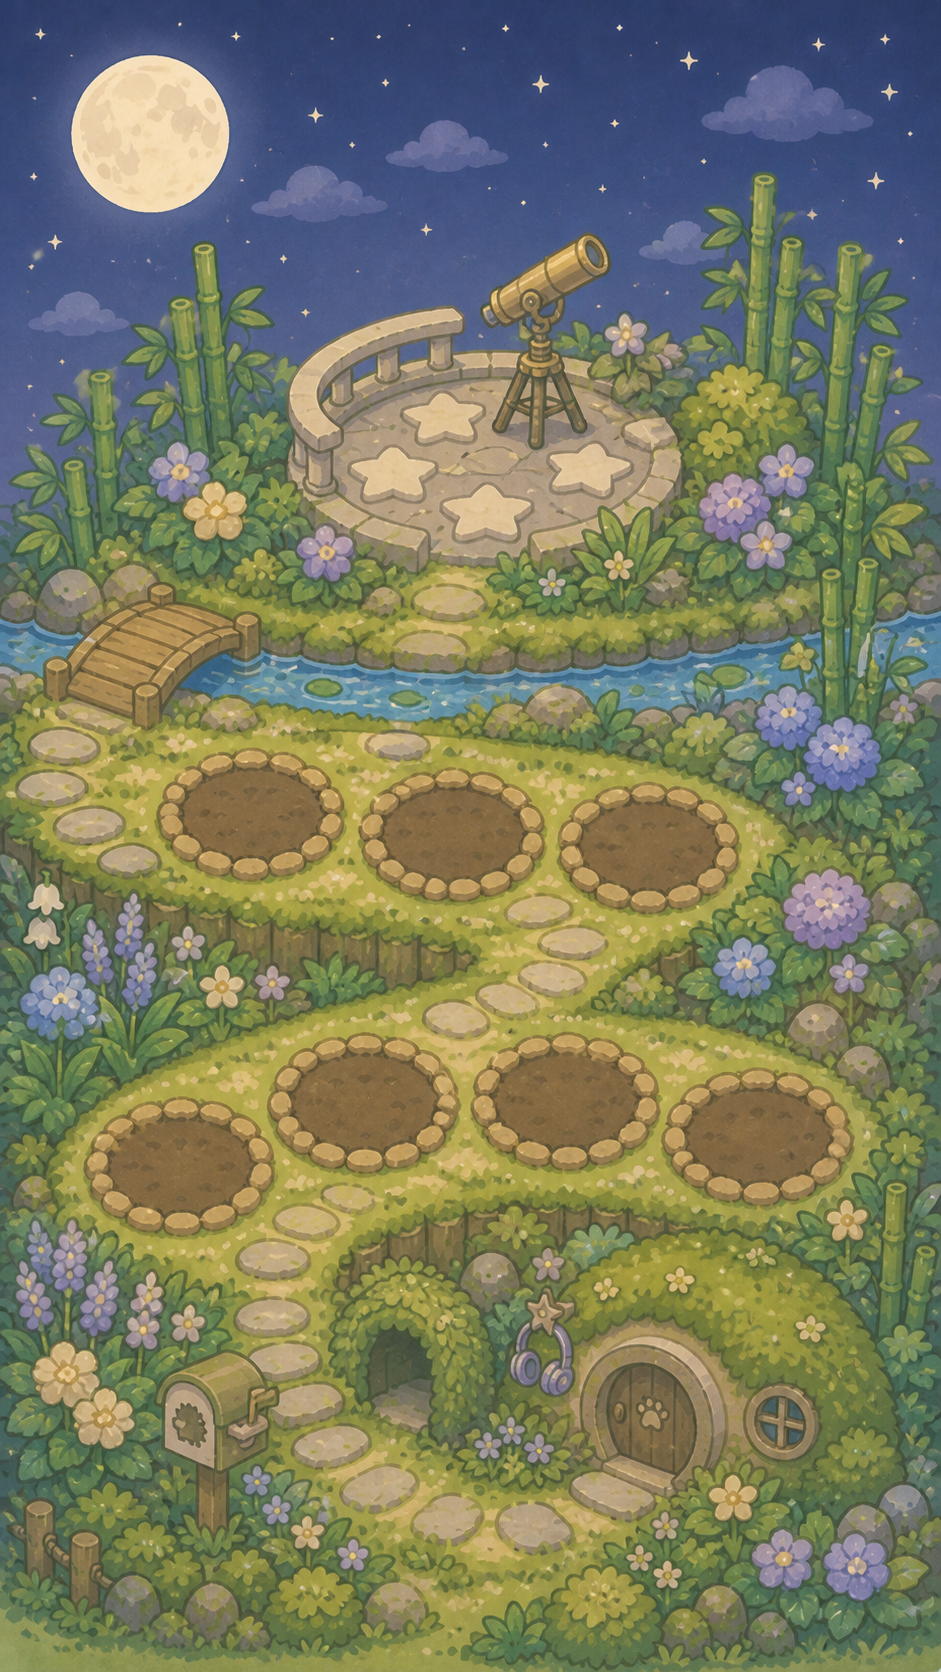
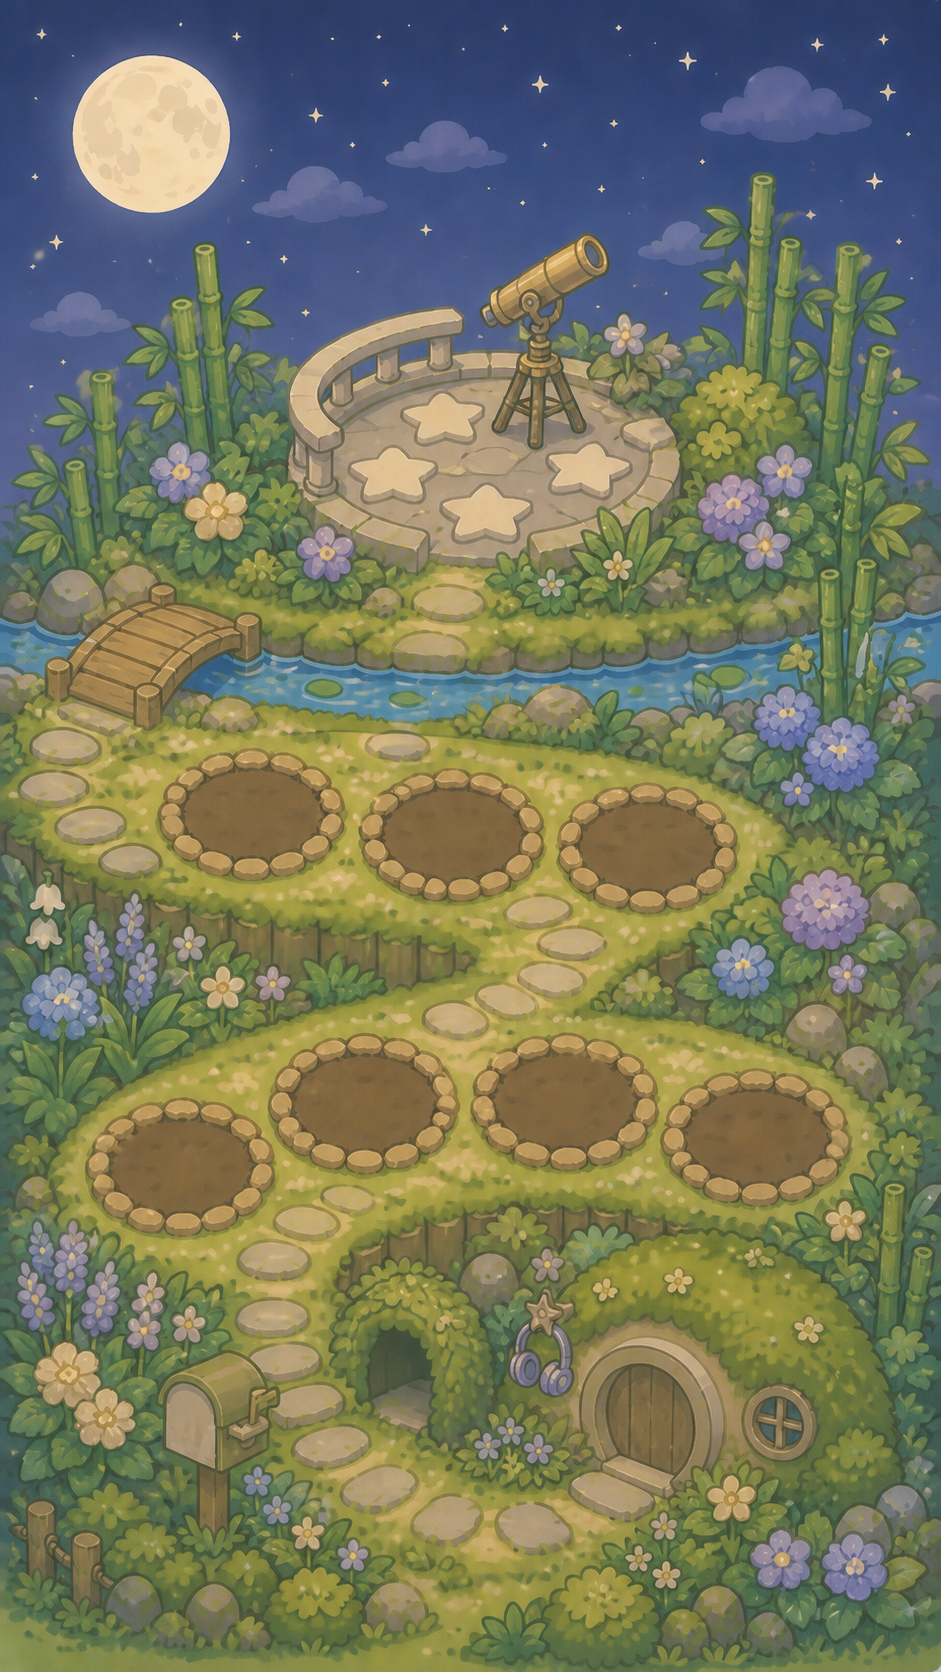
fix: align garden growth and chat identities
# Conflicts:
#	public/world/prototype.js

diff --git a/public/world/prototype.js b/public/world/prototype.js
@@ -63,7 +63,7 @@ const seeds = [
 ];
 
 const gardenPlants = {
-  current: { title: "一起完成这场黑客松", status: "active", asset: "tree.png", peer: "饭团、Lion、Bamboo", date: "进行中", copy: "四个人正在把社交森林的产品、前端、后端与路演体验接到一起。" },
+  current: { title: "新近完成的共同经历", status: "memory", asset: "flower-7.png", peer: "同行者", date: "最近", copy: "这次行动已经完成，也被收进了双方的花园。" },
   ride: { title: "沿着西湖骑一整圈夜风", status: "memory", asset: "flower-1.png", peer: "饭团、迟野", date: "8 月 7 日", copy: "晚风有了路线，湖水有了同行者。" },
   photo: { title: "用一卷胶片拍完校园的夏天", status: "memory", asset: "flower-4.png", peer: "橘子汽水、小满", date: "6 月 19 日", copy: "模糊和颗粒，也成了那个夏天真实存在过的纹理。" },
   study: { title: "去太子湾看郁金香追春天", status: "memory", asset: "flower-3.png", peer: "饭团、橘子汽水、小满", date: "3 月 29 日", copy: "花期快结束，不等于春天结束。" },
@@ -93,7 +93,7 @@ const profileWorlds = {
   "橘子汽水": { garden: "assets/personalized-gardens/chengzi.png", gardenerImage: "assets/gardeners/guanguan.png", gardener: "罐罐", species: "小浣熊", style: "城市寻路型", personality: "慢热细致，总能发现老街、光线和小路的关系。", specialty: "擅长带回 Citywalk、速写和城市摄影相关的种子。", signature: "我发现了一条没走过的小路，想不想看看它通向哪里？" },
   "迟野": { garden: "assets/personalized-gardens/chiye.png", gardenerImage: "assets/gardeners/huihui.png", gardener: "灰灰", species: "小鼹鼠", style: "可靠执行型", personality: "安静守时，喜欢先把路线与时间整理清楚。", specialty: "把模糊的想法拆成可以真正出发的集合点、路线和时间。", signature: "路线和时间我整理好了，你只需要决定要不要出发。" },
   "小满": { garden: "assets/personalized-gardens/xiaoman.png", gardenerImage: "assets/gardeners/lili.png", gardener: "栗栗", species: "小松鼠", style: "季节收藏型", personality: "温和耐心，对花期、鸟鸣和风的变化格外敏感。", specialty: "常带回自然观察、低压力陪伴和长期坚持的种子。", signature: "今天的风和上周不一样，我们出去看看吧。" },
-  "白羽": { garden: "assets/garden-world-v2.png", gardenerImage: "assets/gardeners/rongyue.png", gardener: "绒月", species: "小雪鸮", style: "夜行送信型", personality: "安静、勇敢，喜欢需要等待才会出现的事。", specialty: "在夜里寻找观星、电影与幻想文学有关的种子。", signature: "有些种子只在夜里发光，我替你带回来了一颗。" },
+  "白羽": { garden: "assets/personalized-gardens/baiyu.png", gardenerImage: "assets/gardeners/rongyue.png", gardener: "绒月", species: "小雪鸮", style: "夜行送信型", personality: "安静、勇敢，喜欢需要等待才会出现的事。", specialty: "在夜里寻找观星、电影与幻想文学有关的种子。", signature: "有些种子只在夜里发光，我替你带回来了一颗。" },
 };
 
 const stageMeta = {
@@ -112,8 +112,12 @@ function escapeHtml(value = "") {
 
 // 数据层：当前行动标题与同伴名，优先用真实发布的数据，否则回退演示文案
 function actionTitle() { return (server.draft && server.draft.idea) || "一起完成这场黑客松"; }
-// partnerName 仅用于展示，直接返回已转义值，避免各调用点漏转义（名字来自 LLM/用户不可控输入）
-function partnerName() { return escapeHtml(server.selectedCandidate || "饭团"); }
+function normalizedPersonName(name) {
+  const value = String(name || "").trim();
+  if (!value || value === "小林" || value === "林") return "迟野";
+  return value;
+}
+function partnerName() { return normalizedPersonName(server.selectedCandidate || "饭团"); }
 function candidateList() {
   if (server.published) return server.candidates || [];
   return (server.candidates && server.candidates.length) ? server.candidates : candidates;
@@ -352,11 +356,11 @@ function WorldGardenPage() {
   const meta = stageMeta[server.stage] || stageMeta.SEED;
   const world = window.WorldLayer;
   return `<main class="world-screen garden-world-screen ${ui.mailboxOverlay ? "has-world-modal" : ""}">
-    <section class="game-hud"><div><small>一寸欢喜的社交森林</small><strong>${server.selectedCandidate ? `1 株植物 · ${meta[0]}` : "8 朵回忆花 · 1 株正在生长"}</strong></div><button data-action="world-help">?</button></section>
+    <section class="game-hud"><div><small>一寸欢喜的社交森林</small><strong>${server.archived ? "9 朵共同经历花" : server.published ? `8 朵经历花 · 1 株${meta[0]}植物` : "8 朵共同经历花"}</strong></div><button data-action="world-help">?</button></section>
     <div class="world-scene">
       ${sceneImage(world.scenes.garden.image, "绘本风社交花园：小屋、信箱、花圃、小桥和溪流")}
       <div class="garden-growth-layer" aria-label="花园中的行动植物">
-        ${server.selectedCandidate ? `<button class="real-plant-slot" data-plot-id="current" style="${world.plantStyle("current")}" data-plant="current" aria-label="打开${escapeHtml(actionTitle())}"><img src="assets/${server.stage === "FOREST" ? "flower-7.png" : server.stage === "BLOOM" ? "flower-6.png" : "tree.png"}" alt=""></button>` : ""}
+        ${server.archived ? `<button class="real-plant-slot" data-plot-id="current" style="${world.plantStyle("current")}" data-plant="current" aria-label="打开已完成经历：${escapeHtml(actionTitle())}"><img src="assets/flower-7.png" alt=""></button>` : server.published ? `<button class="real-plant-slot growing-garden-slot" data-plot-id="current" style="${world.plantStyle("current")}" data-action="open-plant-chat" aria-label="打开正在${meta[0]}的行动：${escapeHtml(actionTitle())}">${plant(server.stage, "sm", "green")}<span>${escapeHtml(actionTitle())}</span></button>` : ""}
         <button class="real-plant-slot" data-plot-id="ride" style="${world.plantStyle("ride")}" data-plant="ride" aria-label="打开西湖夜骑回忆"><img src="assets/flower-1.png" alt=""></button>
         <button class="real-plant-slot" data-plot-id="photo" style="${world.plantStyle("photo")}" data-plant="photo" aria-label="打开胶片校园回忆"><img src="assets/flower-4.png" alt=""></button>
         <button class="real-plant-slot" data-plot-id="study" style="${world.plantStyle("study")}" data-plant="study" aria-label="打开太子湾郁金香回忆"><img src="assets/flower-3.png" alt=""></button>
@@ -508,7 +512,11 @@ function PersonProfilePage(name) {
     gardener: `${name}的小花匠`,
     bio: candidate?.note || "仅展示与本次匹配有关的公开信息。",
     interests: candidate?.facts || ["校园活动"],
-    experiences: [["🌱", "正在寻找新的同行", candidate?.reason || "这段共同经历还没有开始。", "与本次需求相关"]],
+    experiences: [
+      ["🌙", "一起走完一次校园夜游", "路灯亮起来以后，同行的人让熟悉的校园有了新的路线。", `和${name}的朋友共同完成`],
+      ["🎬", "把教室变成一晚小影院", "灯亮以后，最后一段关于电影的聊天也成为了片尾。", "已完成并收进花园"],
+      ["🏃", "完成一次校园跑约定", "不必保持相同速度，也都抵达了各自的终点。", "参与者已确认完成"],
+    ],
   };
   const world = profileWorlds[name] || {
     garden: "assets/garden-world-v2.png",
@@ -540,22 +548,39 @@ function CandidateA2APage(index) {
 
 function ActionsPage() {
   const meta = stageMeta[server.stage] || stageMeta.SEED;
-  const body = server.selectedCandidate
-    ? `<div class="conversation-list"><article class="action-list-item" data-route="chat"><div class="chat-avatar"><img src="assets/flower-7.png" alt=""></div><div class="chat-summary"><div><h3>${escapeHtml(actionTitle())}</h3><time>刚刚</time></div><p>${server.messages.length ? `${server.messages[server.messages.length - 1].author === "me" ? "我" : partnerName()}：${escapeHtml(server.messages[server.messages.length - 1].text)}` : `${partnerName()}：期待和你一起～`}</p><span>${meta[0]} · 4 位群聊成员</span></div><div class="unread">1</div></article></div>`
-    : `<section class="card sent-seed">${plant("SEED", "md", "green")}<span class="mini-label">还没有进行中的行动</span><h2>先种下一件想做的事</h2><p>成局之后，你和同行者的群聊会出现在这里。</p><button class="primary" data-action="publish">种一颗种子</button></section>`;
-  return `<main class="screen github-aligned-page">${topbar("聊天列表", "同行与协作", true)}<div class="tabs chat-tabs"><button class="active">进行中的聊天</button><button>已结束</button></div>${body}</main>`;
+  return `<main class="screen github-aligned-page">${topbar("聊天列表", "同行与协作", true)}<div class="tabs chat-tabs"><button class="active">进行中的聊天</button><button>已结束</button></div><div class="conversation-list"><button class="action-list-item" data-route="chat"><div class="chat-avatar growing-icon">${plant(server.stage, "sm", "green")}</div><div class="chat-summary"><div><h3>${escapeHtml(actionTitle())}</h3><time>刚刚</time></div><p>${server.messages.length ? `${server.messages[server.messages.length - 1].author === "me" ? "一寸欢喜" : partnerName()}：${escapeHtml(server.messages[server.messages.length - 1].text)}` : `${partnerName()}：期待和你一起～`}</p><span>${server.selectedCandidate ? `${meta[0]} · 4 位群聊成员` : "种子 · 等待选择同行者"}</span></div><div class="unread">1</div></button><button class="action-list-item" data-route="hackathon-chat"><div class="chat-avatar warm growing-icon">${plant("GROWING", "sm", "gold")}</div><div class="chat-summary"><div><h3>一起完成这场黑客松</h3><time>昨天</time></div><p>一寸欢喜的小羊：已整理好最后一轮联调清单</p><span>正在生长 · 一寸欢喜、饭团、Lion、Bamboo</span></div></button></div></main>`;
+}
+
+function HackathonChatPage() {
+  const participants = ["饭团", "Lion", "Bamboo"];
+  return `<main class="screen chat-screen github-aligned-page">${topbar("一起完成这场黑客松", "一寸欢喜、饭团、Lion、Bamboo", true)}
+    <section class="chat-progress"><div class="growth-plant">${plant("GROWING", "sm", "gold")}</div><div><strong>行动状态 · 生长</strong><small>四个人正在完成最后一轮联调</small></div></section>
+    <div class="chat-log" id="chat-log">
+      <div class="chat-divider"><span>小花匠协作记录</span></div>
+      ${participants.map(name => { const world = profileWorlds[name]; return `<div class="agent-message peer partner-agent"><button class="agent-avatar portrait-agent" data-person-profile="${name}" aria-label="查看${name}的花园"><img src="${world.gardenerImage}" alt="${world.gardener}"></button><div><strong>${name}的${world.gardener}</strong><p>${name}已经确认了今天负责的部分，完成后会回来同步进度。</p><small>点击头像进入${name}的花园</small></div></div>`; }).join("")}
+      <div class="agent-message own my-agent"><span class="agent-avatar portrait-agent"><img src="assets/gardeners/xiaoyang.png" alt="小羊"></span><div><strong>一寸欢喜的小羊</strong><p>我已经把前端、后端和路演体验的最后一轮清单整理好了。</p><small>来自一寸欢喜的小花匠</small></div></div>
+      <div class="chat-divider active"><span>四位真人共同确认 · 行动继续生长</span></div>
+      <div class="message-entry theirs"><small>饭团</small><div class="message them">我来核对演示流程和讲解顺序。</div></div>
+      <div class="message-entry theirs"><small>Lion</small><div class="message them">我再完整走一遍评委体验链路。</div></div>
+      <div class="message-entry mine"><small>一寸欢喜</small><div class="message me">好，我把花园入口和文案状态收一下。</div></div>
+      <section class="agreement card"><span class="mini-label">正在进行 · 全国高校协作</span><h2>StyleCapture 码上搭</h2><p>${icon("people")} 一寸欢喜、饭团、Lion、Bamboo</p><p>${icon("clock")} 今天完成最后联调</p><p>${icon("pin")} 线上协作 + 酒店大堂</p></section>
+    </div>
+  </main>`;
 }
 
 function ChatPage() {
   const meta = stageMeta[server.stage] || stageMeta.SEED;
-  const messages = server.messages.map(message => `<div class="message ${message.author === "me" ? "me" : "them"}">${escapeHtml(message.text)}</div>`).join("");
+  const messages = server.messages.map(message => {
+    const mine = message.author === "me";
+    return `<div class="message-entry ${mine ? "mine" : "theirs"}"><small>${mine ? "一寸欢喜" : escapeHtml(partnerName())}</small><div class="message ${mine ? "me" : "them"}">${escapeHtml(message.text)}</div></div>`;
+  }).join("");
   const allConfirmed = server.slots.people && server.slots.time && server.slots.place;
   return `<main class="screen chat-screen github-aligned-page">${topbar(escapeHtml(actionTitle()), "4 位群聊成员", true)}
     <section class="chat-progress"><div class="growth-plant">${plant(server.stage, "sm", "green")}</div><div><strong>行动状态 · ${meta[0]}</strong><small>${meta[1]}</small></div></section>
     <div class="chat-log" id="chat-log">
       <div class="chat-divider"><span>匹配阶段 · 两位 Agent 的对话记录</span></div>
-      <div class="agent-message own"><span class="agent-avatar">🐑</span><div><strong>一寸欢喜的小羊</strong><p>一寸欢喜想找一位搭子一起「${escapeHtml(actionTitle())}」，希望时间、地点和活动节奏都合得来。</p><small>来自一寸欢喜发布种子时确认的信息</small></div></div>
-      <div class="agent-message peer"><button class="agent-avatar" data-person-profile="${escapeHtml(partnerName())}" aria-label="查看${escapeHtml(partnerName())}的个人主页">🦊</button><div><strong>${partnerName()}的小花匠</strong><p>${partnerName()}时间和你合得上，对这次行动也很有兴趣，愿意一起完成。</p><small>来自${partnerName()}向自己小花匠确认的信息</small></div></div>
+      <div class="agent-message peer partner-agent"><button class="agent-avatar" data-person-profile="${escapeHtml(partnerName())}" aria-label="查看${escapeHtml(partnerName())}的个人主页">🦊</button><div><strong>${partnerName()}的小花匠</strong><p>${partnerName()}时间和你合得上，对这次行动也很有兴趣，愿意一起完成。</p><small>来自${partnerName()}向自己小花匠确认的信息</small></div></div>
+      <div class="agent-message own my-agent"><span class="agent-avatar">🐑</span><div><strong>一寸欢喜的小羊</strong><p>一寸欢喜想找一位搭子一起「${escapeHtml(actionTitle())}」，希望时间、地点和活动节奏都合得来。</p><small>来自一寸欢喜发布种子时确认的信息</small></div></div>
       <div class="chat-divider active"><span>双方已确认组队 · 四方行动群聊开始</span></div>
       ${server.messages.length ? "" : `<div class="message them">嗨！很期待和你一起，咱们把时间地点定一下吧～</div>`}${messages}
       ${!ui.proposalsOpen && !allConfirmed ? `<button class="secondary full chat-help" data-action="help-progress">请小羊整理时间与地点</button>` : ""}
@@ -608,7 +633,7 @@ function page() {
   if (ui.route?.startsWith("candidate-space:")) return CandidateSpacePage(ui.route.split(":")[1]);
   if (ui.route?.startsWith("candidate-a2a:")) return CandidateA2APage(ui.route.split(":")[1]);
   if (ui.route?.startsWith("candidate:")) return CandidateDetailPage(ui.route.split(":")[1]);
-  return ({ publish: PublishPage, matching: MatchingPage, candidates: CandidatesPage, chat: ChatPage, complete: CompletePage, memory: MemoryPage }[ui.route]
+  return ({ publish: PublishPage, matching: MatchingPage, candidates: CandidatesPage, chat: ChatPage, "hackathon-chat": HackathonChatPage, complete: CompletePage, memory: MemoryPage }[ui.route]
     || { garden: WorldGardenPage, mailbox: MailboxPage, actions: ActionsPage, profile: ProfilePage }[ui.tab]
     || WorldGardenPage)();
 }
@@ -649,7 +674,7 @@ function goBack() {
   else if (ui.route?.startsWith("memory:")) { ui.route = "memory"; }
   else if (ui.route?.startsWith("candidate-space:") || ui.route?.startsWith("candidate-a2a:")) ui.route = `candidate:${ui.route.split(":")[1]}`;
   else if (ui.route?.startsWith("candidate:")) ui.route = "candidates";
-  else if (ui.route === "chat" || ui.route === "memory") { const previous = ui.route; ui.route = null; ui.tab = previous === "chat" ? "actions" : "garden"; }
+  else if (ui.route === "chat" || ui.route === "hackathon-chat" || ui.route === "memory") { const previous = ui.route; ui.route = null; ui.tab = previous === "memory" ? "garden" : "actions"; }
   else if (ui.route === "candidates" || ui.route === "matching") ui.route = "publish";
   else if (ui.route === "complete") ui.route = "chat";
   else { ui.route = null; ui.tab = "garden"; }
@@ -742,7 +767,7 @@ document.addEventListener("click", async event => {
   if (action === "decorate") { ui.decorated = !ui.decorated; notify(ui.decorated ? "摆上了新地毯和花灯" : "已收起本次装扮"); return render(); }
   if (action === "notify") return notify(ui.unreadMail ? `${ui.unreadMail} 个新机会已经放进信箱` : "信箱暂时没有新消息");
   if (action === "publish") return startPublishFlow();
-  if (action === "open-plant-chat") { ui.route = "chat"; return render(); }
+  if (action === "open-plant-chat") { ui.route = server.selectedCandidate ? "chat" : "candidates"; return render(); }
   if (action === "open-all-memories") { ui.route = "memory"; return render(); }
   if (action === "view-candidates") { ui.route = "candidates"; return render(); }
   if (action === "calendar-prev") { ui.calendarMonthOffset = Math.max(0, ui.calendarMonthOffset - 1); return render(); }

diff --git a/public/world/enhancements.css b/public/world/enhancements.css
@@ -161,6 +161,27 @@
 .garden-memory-card > img { width: 116px; height: 136px; display: block; margin: -5px auto 3px; object-fit: contain; }
 .garden-memory-card footer { margin-top: 14px; border-top: 1px dashed #cfbf8c; padding-top: 12px; color: #817859; font-size: 9px; line-height: 1.6; }
 
+/* Chat identity is explicit: partner on the left, 一寸欢喜 on the right. */
+.agent-message.partner-agent { grid-template-columns: 31px 1fr; margin-right: auto; margin-left: 0; }
+.agent-message.partner-agent .agent-avatar { order: 0; }
+.agent-message.partner-agent > div { border-radius: 5px 17px 17px 17px; background: #f6e6d7; }
+.agent-message.my-agent { grid-template-columns: 1fr 31px; margin-right: 0; margin-left: auto; }
+.agent-message.my-agent .agent-avatar { order: 2; }
+.agent-message.my-agent > div { border-radius: 17px 5px 17px 17px; background: #fff4d9; }
+.message-entry { display: grid; margin: 10px 0; }
+.message-entry > small { margin: 0 6px 3px; color: var(--muted); font-size: 8px; }
+.message-entry .message { margin: 0; }
+.message-entry.mine { justify-items: end; }
+.message-entry.theirs { justify-items: start; }
+.chat-avatar.growing-icon { display: grid; place-items: center; overflow: visible; background: #eff3db; }
+.chat-avatar.growing-icon .plant { transform: scale(.55); }
+.growing-garden-slot { width: 86px; height: 106px; display: grid; justify-items: center; align-content: end; }
+.growing-garden-slot .plant { margin-bottom: -9px; transform: scale(.72); transform-origin: bottom center; }
+.growing-garden-slot > span { max-width: 96px; overflow: hidden; border: 1px solid rgba(112,120,70,.22); border-radius: 999px; padding: 4px 7px; background: rgba(255,253,226,.93); box-shadow: 0 3px 9px rgba(55,62,34,.13); font-size: 7px; font-weight: 900; text-overflow: ellipsis; white-space: nowrap; }
+.conversation-list > button.action-list-item { width: 100%; border: 0; color: inherit; font: inherit; text-align: left; }
+.portrait-agent { overflow: hidden; padding: 0; }
+.portrait-agent img { width: 100%; height: 100%; display: block; object-fit: contain; }
+
 .a2a-disclosure { display: grid; grid-template-columns: 26px 1fr; gap: 8px; border-radius: 15px; padding: 11px 12px; background: var(--soft); }
 .a2a-disclosure p { margin: 0; color: var(--muted); font-size: 8px; line-height: 1.55; }
 .a2a-disclosure strong { color: var(--primary); font-size: 9px; }
